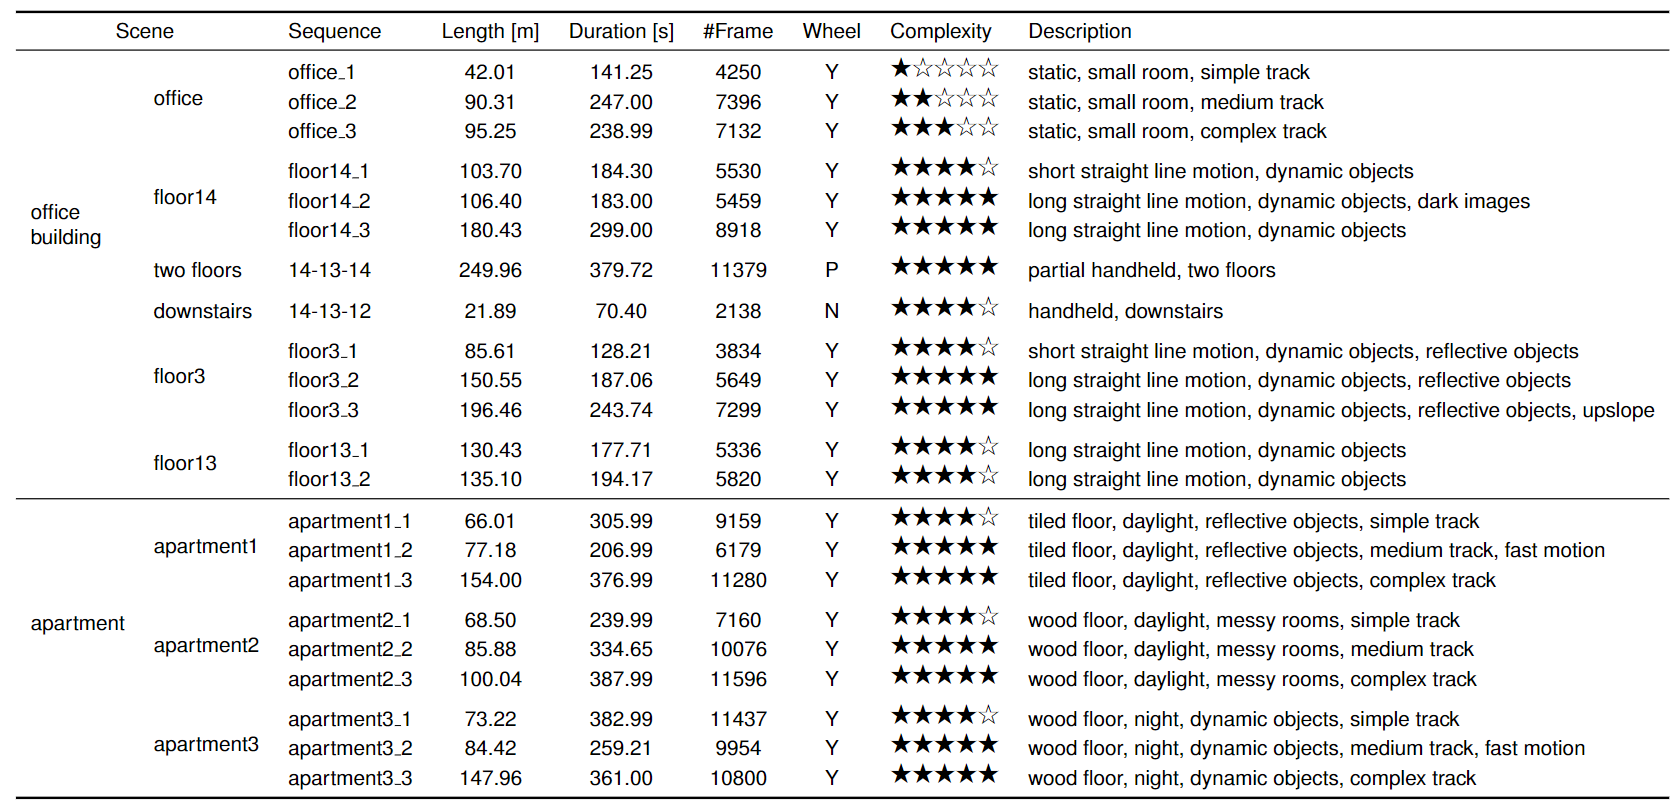
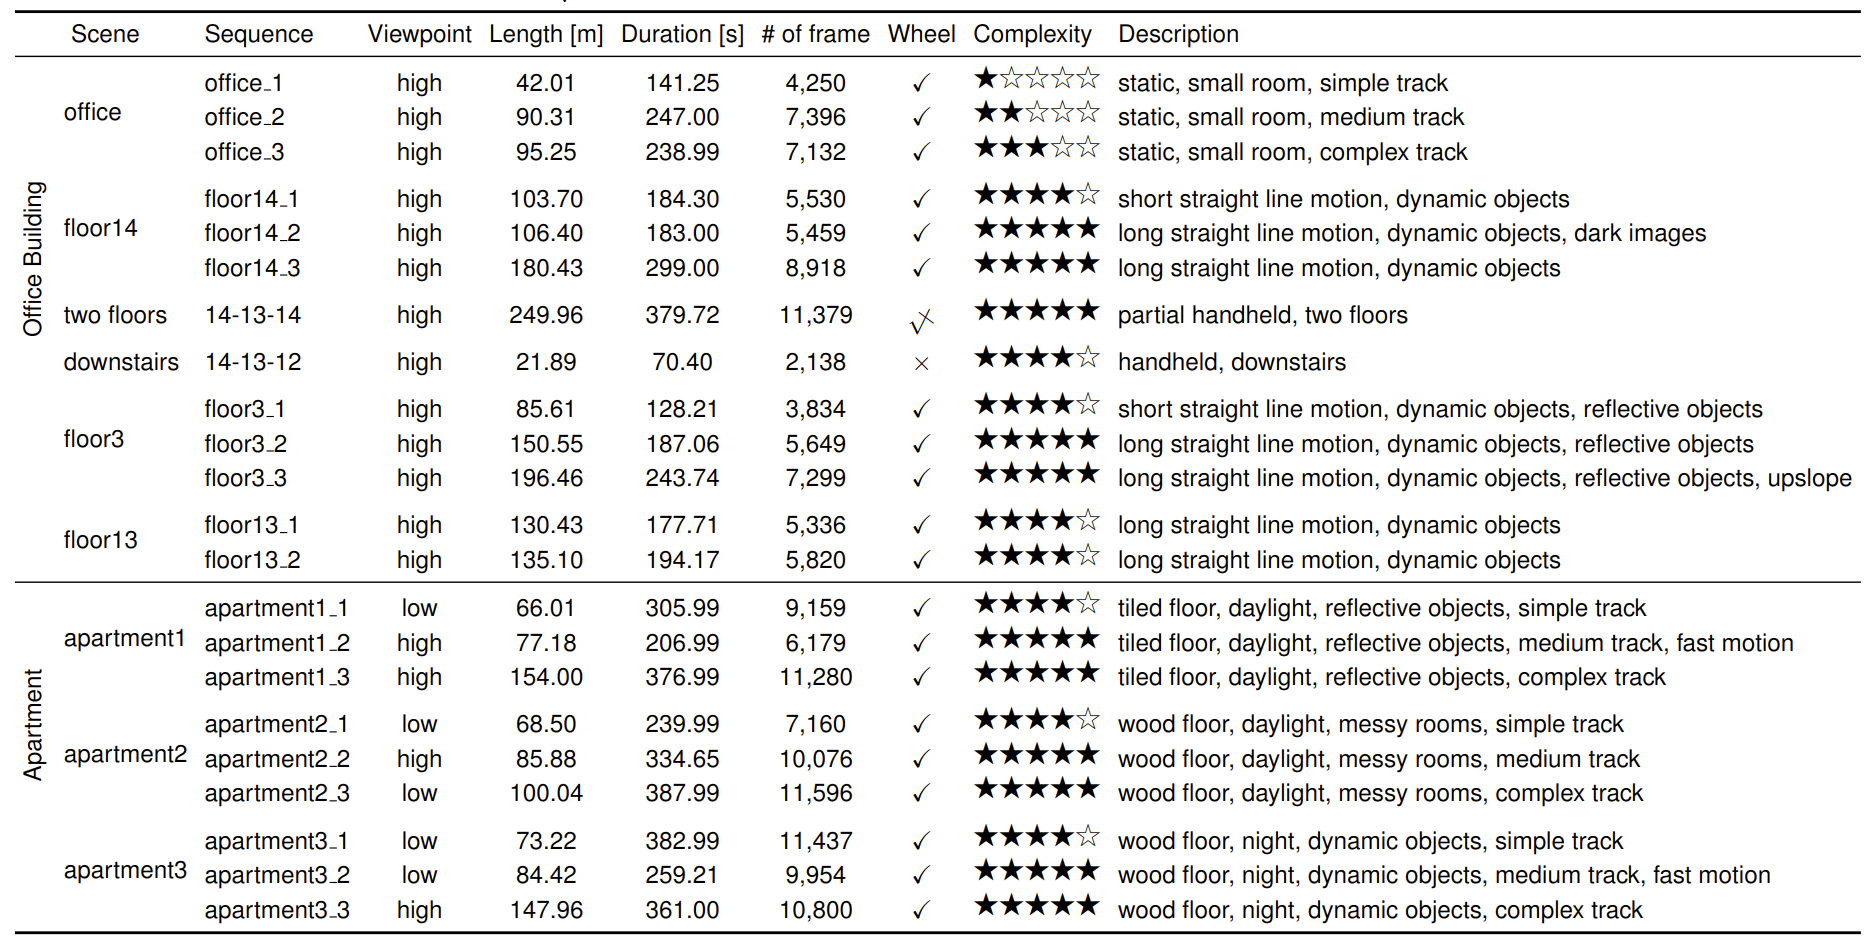
update

Changed region(s): [[0.0, 0.0, 0.9911, 0.9864], [0.031, 0.4316, 0.0619, 0.4932], [0.031, 0.0925, 0.0619, 0.1233]]

diff --git a/overview/index.html b/overview/index.html
@@ -55,34 +55,87 @@
     <div class="content-table flex-column">
       <div class="flex-row">
         <div class="flex-item flex-column">
+
+          <h2 class="no-top-margin">About this dataset</h2>
+          <hr>
+          <p class="text">
+            To advance research in leveraging semantic information
+            and multi-sensor data to enhance the performances of SLAM and 3D reconstruction in complex indoor scenes, we
+            propose a novel and complex indoor dataset named CID-SIMS, where semantic annotated RGBD images, inertial
+            measurement unit (IMU) measurements and wheel odometer data are provided from a ground wheeled robot viewpoint.
+            The dataset consists of 22 challenging sequences captured in 9 different scenes including office building and apartment
+            environments. Notably, our dataset achieves two significant breakthroughs. Firstly, semantic information and multi-sensor 
+            data are provided meanwhile for the first time. 
+            Secondly, <a href="https://geoslam.com/">GeoSLAM</a> is utilized for the first time to generate
+            ground truth trajectories and 3D point clouds within 2 cm accuracy. With spatial-temporal synchronous ground truth
+            trajectories and 3D point clouds, our dataset is capable of evaluating SLAM and 3D reconstruction algorithms in a
+            unified global coordinate system.
+          </p>
+
           <h2 class="no-top-margin">Sequences</h2>
           <hr>
+          <p class="text">
+            Sequences in this dataset are mainly from a ground wheeled
+            robot with two camera views (approximately 0.26 m (high)
+            and 0.12 m (low) above the ground), except for two
+            sequences that contain handheld situations when going
+            downstairs. The dataset covers a large variety of scenes
+            and motion modes. There are some challenging scenarios such as motion blurs, illumination
+            changes, reflective objects and weak textures. 
+          </p>
+
           <h3>Statistics</h3>
-          <br>
-          <img class="image center add-top-margin-small" src="../img/overview/env.png" width=800px height=400px />
-          <br>
           <img class="image center add-top-margin-small" src="../img/overview/sequence_table.png" style="height: 400px">
           <br>
           <h3>Office Building</h3>
+          <img class="image center add-top-margin-small" src="../img/overview/building.png" width=800px height=200px />
           <p class="text">
-            We collect 13 sequences in typical
-            office building environments, which cover 6 different scenes.
-            These sequences are captured during the day with windows
-            and daylight appearing a few times. Sequences in floor
-            scenes are more challenging because of insufficient rotation
+            We collect 13 sequences in a typical
+            office building, which cover 6 different scenes. Sequences in
+            floor scenes are challenging because of insufficient rotation
             and weak textures.
+            <li><b>Office: </b> Three sequences are captured inside a small
+              office room (about 6 m × 7 m), where all the objects are static.</li>
+            <li><b>Floor14: </b> Three sequences are captured in the open
+              office area on the 14th floor of a building, including
+              illumination changes and dynamic pedestrians.</li>
+            <li><b>Downstairs: </b> A sequence is collected in the stairwell
+              by carrying the robot going downstairs by hand.
+              The sequence is under 6-DoF motion and the wheel
+              odometer data is missing.</li>
+            <li><b>Two floors: </b> A long sequence is recorded by firstly
+              moving on the 14th floor, then going downstairs, next
+              moving on the 13th floor and finally going back to the
+              14th floor. When passing through the stairs, the wheel
+              odometer data is unavailable.</li>
+            <li><b>Floor3: </b> Three sequences are captured along corridors
+              (about 70 m) with straight line motion, dynamic
+              pedestrians, reflective objects and an uphill movement.</li>
+            <li><b>Floor13: </b> Two long sequences are recorded in a long
+              corridor (about 65 m).</li>
           </p>
           <h3>Apartment</h3>
+          <img class="image center add-top-margin-small" src="../img/overview/apartment.png" width=800px height=200px />
           <p class="text">
-            We recorded 9 sequences in real living
+            We record 9 sequences in real living
             environments, which cover 3 different apartments. The
-            apartments are about 10m × 10m, including a living room,
-            two or three bedrooms, a bathroom and a kitchen. The
-            rooms are cluttered with small and unstructured obstacles.
-            Sequences in apartment scenes contain rich loops and
-            rotational motions. There are also special situations such as
-            motion blur, weak texture and reflective objects
+            apartments are about 10 m × 10 m, including a living
+            room, two or three bedrooms, a bathroom and a kitchen.
+            These rooms are cluttered with small and unstructured
+            obstacles. Sequences in apartment scenes contain rich loops
+            and rotational motions. There are also challenging situations
+            such as motion blurs, weak textures and reflective objects.
+            <li><b>Apartment1: </b> Three sequences are captured in an
+              apartment during the day, where the tiled floor is
+              reflective.</li>
+            <li><b>Apartment2: </b> Three sequences are collected in an
+              apartment during the day. The apartment is messy, in
+              which dust and litter cause uneven floors.</li>
+            <li><b>Apartment3: </b> Three sequences are acquired in an
+              apartment at night with the lights turned on.</li>
           </p>
+
+
 
 
         </div>

diff --git a/calibration/index.html b/calibration/index.html
@@ -59,14 +59,22 @@
             <h2 class="no-top-margin">Setup</h2>
             <hr>
             <p class="text">
-              We design a ground wheeled robot equipped with an RGBD-IW (an RGBD camera, an IMU and a wheel odometer) sensor suite for data acquisition. In order to obtain ground truth trajectories and 3D point cloud models, a high-
-precision external 3D laser scanner called GeoSLAM is fixed on the top layer of the robot. Figure 2 illustrates the robot setup and the geometric relation among the RGBD camera, the IMU, the wheel odometer and the GeoSLAM. The handle
-on the robot is convenient for collecting data by different people.
+              We design a ground wheeled robot equipped with an RGBD-
+              IW (an RGBD camera, an IMU and a wheel odometer)
+              sensor suite for data acquisition. In order to obtain ground
+              truth trajectories and 3D point clouds, a high-precision
+              3D laser scanner called GeoSLAM is fixed on the top of
+              the robot. In addition, to enrich the dataset, two different
+              viewpoints (high and low) are designed for capturing images.
+              The figure below illustrates the robot setup, the coordinate systems
+              of all sensors and two different viewpoints for the RGBD
+              camera.
             </p>
             <img class="image center max-width-500 add-top-margin-small" src="../img/setup/setup.png" style="height: 400px">
             <h3>RGBD camera</h3>
             <p class="text">
-              The Intel RealSense Depth Camera D455 is chosen as the
+              <a href="https://www.intelrealsense.com/depth-camera-d455/">The Intel RealSense Depth Camera D455</a>
+              is chosen as the
               RGBD camera. A global shutter camera is used to capture
               color images. Active Infrared (IR) Stereo Vision Technology is employed to generate depth measurements. The ideal
               depth range is 0.6 to 6 meters from the image plane, and
@@ -111,24 +119,24 @@ on the robot is convenient for collecting data by different people.
               to 6 millimeters dependant on the environment. GeoSLAM
               provides trajectories at 100Hz, which are in the same
               coordinate system as the corresponding 3D point cloud
-              model. Figure 3 shows an example of the z-axis coordinates
-              changing over time in a long trajectory. Taking advantage
-              of the fact that the robot moves on the ground, the z-axis
-              coordinates varying within 0.008 meters on average reflects
-              the validity and precision of ground truths in our dataset
+              model.
             </p>
 
-            <br><br><br>
+            <br>
             <h2 class="no-top-margin">Calibration</h2>
             <hr>
             <p class="text">
               Our benchmark provides accurate intrinsic and extrinsic
               parameters calibration and time synchronization for different
-              sensors and the 3D laser scanner. All parameters are reported in
-              <a href=".yaml">calibration.yaml</a>.
+              sensors and the 3D laser scanner, as shown in the table below. All parameters are reported in
+              <a href="./calibration.yaml">calibration.yaml</a>.
             </p>
-            <img src="../img/calibration/table.png" width=418px height=303px />
 
+            <div>
+              <img src="../img/calibration/table.png" justify-content=center width=418px height=303px/>
+            </div>
+
+            
           <h2>Acknowledgement</h2>
           <hr>
           <ol class="publication">

diff --git a/groundtruth/index.html b/groundtruth/index.html
@@ -55,29 +55,38 @@
     <div class="content-table flex-column">
       <div class="flex-row">
         <div class="flex-item flex-column">
-          <h2 class="no-top-margin">Groundtruth</h2>
+
+          <h2 class="no-top-margin">Groundtruth 3D Point Clouds</h2>
+          <hr>
+          <p>The ground truth 3D point clouds are acquired simultaneously with the corresponding trajectories.
+            We merge the 3D point clouds as a complete point cloud for each scene.</p>
+
+          <video width="870.4" height="652.8" controls>
+            <source src="./models.mp4" type="video/mp4">
+          </video>
+          
+          <br>
+
+          <h2 class="no-top-margin">Groundtruth Trajectories</h2>
+          <hr>
           <p>The timestamped translation vector
-            and unit quaternion of the ground truth trajectory
-            (from the camera coordinate to the world coordinate. Format:</p>
+            and unit quaternion of a ground truth trajectory
+            from the camera coordinate to the world coordinate are formatted as:</p>
             <p class="language-text">
               timestamp[i] p_x p_y p_z q_x q_y q_z q_w
             </p>
           <p class="text">
-            The ground truth 3D point cloud models are acquired simultaneously with the corresponding trajectories using
-            GeoSLAM. In the same scene, for different trajectories,
-            the models are in different coordinate systems. Using
-            CloudCompare2, we merge the 3D point cloud models as
-            a complete model for each scene. The process involves
-            a first coarse alignment by manually selecting point
-            correspondences and a densely sampled fine alignment
-            using Iterative Closest Point (ICP). Based on the two steps, a
-            global calibration for each scene is given so that the 3D point
-            cloud models are unified in a global coordinate system. After
-            manually eliminating moving objects, we provide a complete
-            point model with the standard .las file format for each scene.
-            Similarly, transforming trajectories from the original world
-            frame to the global coordinate frame is done by applying the rigid transformation.
+            Similarly, transforming trajectories from the original world frame to the global coordinate frame is done by applying the rigid transformation.
           </p>
+
+          
+
+
+
+
+          
+
+          
         </div>
       </div>
     </div>

diff --git a/css/frame.css b/css/frame.css
@@ -48,7 +48,7 @@
  
  h2 {
    font-size: 24px;
-   color: #123456;
+   color: #595c7d;
    margin: 30px 0 0 0;
    padding: 0;
    font-weight: bold;
@@ -85,7 +85,7 @@
    z-index: 2;
    position: relative;
    width: 100%;
-   background-color: #123456;
+   background-color: #595c7d;
    min-width: 300px;
    -webkit-touch-callout: none;
    -webkit-user-select: none;
@@ -211,7 +211,7 @@
  .menu .menu-items .dropdown .dropdown-content {
    display: none;
    position: absolute;
-   background-color: #123456;
+   background-color: #595c7d;
    min-width: 100px;
    box-shadow: 0px 8px 16px 0px rgba(0, 0, 0, 0.2);
    z-index: 1;
@@ -287,7 +287,7 @@
    font-weight: 300;
    line-height: 1.5;
    overflow-x: auto;
-   background-color: #123456;
+   background-color: #595c7d;
    display: flex;
  }
  
@@ -450,6 +450,8 @@
    -ms-user-select: none;
    user-select: none;
    display: flex;
+   justify-content: center;
+   align-items: center;
  }
  
  .image.center {
@@ -464,6 +466,8 @@
    display: table-cell;
    overflow: hidden;
    border-radius: 2px;
+   justify-content: center;
+   align-items: center;
  }
  
  .adaptive-image {
@@ -1140,7 +1144,7 @@
  
  .custom-survey .custom-radio-group-survey input[type="radio"]:not(:disabled):hover,
  .custom-survey .custom-radio-group-survey input[type="checkbox"]:not(:disabled):hover {
-   color: #123456;
+   color: #00a542;
    background-color: #eeeeee;
  }
  

diff --git a/index.html b/index.html
@@ -57,6 +57,11 @@
       <div class="banner-table flex-column">
         <div class="flex-row">
           <div class="flex-item flex-column">
+            <h2 class="add-top-margin-small">CID-SIMS: Complex Indoor Dataset with
+              Semantic Information and Multi-sensor
+              Data from a Ground Wheeled Robot
+              Viewpoint</h2>
+              <br><br>
             <h2 class="add-top-margin-small">About this dataset</h2>
             <p class="text">
               To advance research in leveraging semantic information
@@ -69,8 +74,7 @@
               Secondly, <a href="https://geoslam.com/">GeoSLAM</a> is utilized for the first time to generate
               ground truth trajectories and 3D point clouds within 2 cm accuracy. With spatial-temporal synchronous ground truth
               trajectories and 3D point clouds, our dataset is capable of evaluating SLAM and 3D reconstruction algorithms in a
-              unified global coordinate system. We evaluate state-of-the-art SLAM and 3D reconstruction approaches on our dataset,
-              demonstrating that our benchmark is applicable.
+              unified global coordinate system.
             </p>
 
             <!-- <br><br><br><br><br><br><br> -->

diff --git a/download/index.html b/download/index.html
@@ -67,9 +67,10 @@
 
             <img src="../img/overview/format.png" width=336.3px height=444.9px />
 
+            <br>
             <h2 class="no-top-margin">Download</h2>
             <hr>
-            <p>All the data can be download <a href="https://doi.org/10.57760/sciencedb.ai.00003">here</a>.</p>
+            <p>All the data can be downloaded <a href="https://doi.org/10.57760/sciencedb.ai.00003">here</a>.</p>
           </div>
         </div>
       </div>

diff --git a/contact/index.html b/contact/index.html
@@ -83,7 +83,7 @@
             <p class="text">
               Please feel free to contact us if you have any questions.
               <br>
-              Email:
+              Email: yyddzhang@gmail.com
               <!-- (<a href=".pdf">article link</a>): -->
             </p>
           </div>
